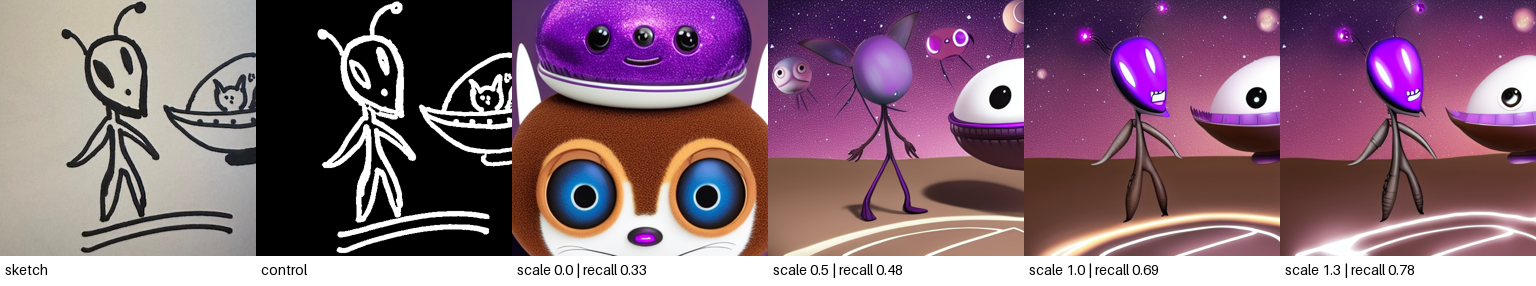
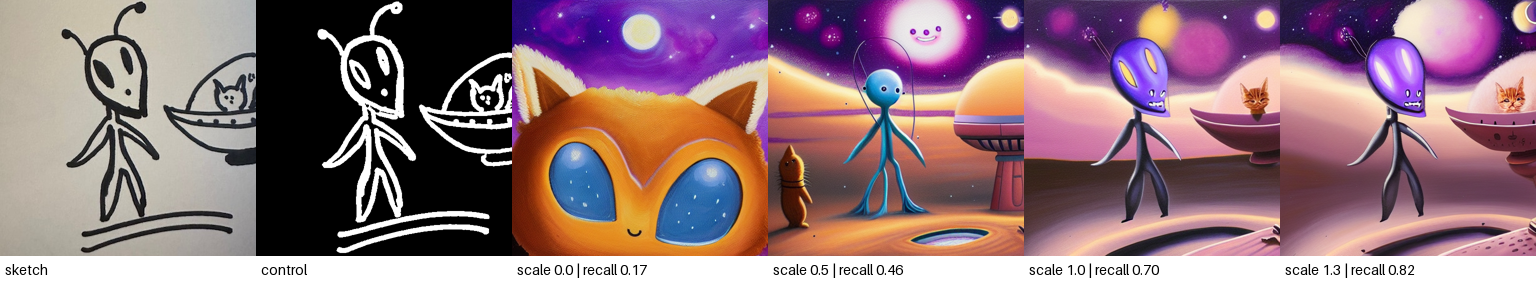
Update code, results and README

diff --git a/experiments.py b/experiments.py
@@ -4,12 +4,12 @@ from preprocess import preprocess_sketch
 from generate import load_pipeline, generate
 
 ALIEN = "a cute purple alien with two antennae and a big smiling face"
-CAT = "a cute brown with white lines cat with big eyes and a happy face"
+CAT =  "a small fluffy orange cat"
 
 SCENES = {
-    "alien_1": f"a flying saucer UFO with a glass dome, {ALIEN} inside waving both hands, light beam shining down, night forest",
-    "alien_2": f"{ALIEN} is out of the UFO, he is surprised to see {CAT} inside the UFO, {CAT} is happy to see {ALIEN}, night forest, light beam shining down",
-    "alien_3": f"{ALIEN} now is inside of the UFO with {CAT}, they are both happy, night forest, light beam shining down",
+   # "alien_1": f"a flying saucer UFO with a glass dome, {ALIEN} inside waving both hands, light beam shining down, night forest",
+    "alien_2": f"{ALIEN} standing outside a landed UFO, {CAT} looking happily at the alien from inside the UFO",
+    #"alien_3": f"{ALIEN} now is inside of the UFO with {CAT}, they are both happy, night forest, light beam shining down",
 }
 
 STYLES = {
